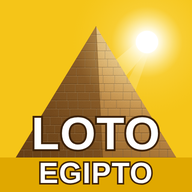
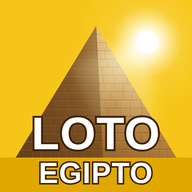
Icono: luz del sol más fotográfica

Changed region(s): [[0.4062, 0.2188, 0.8125, 0.5938]]

diff --git a/index.html b/index.html
@@ -7,9 +7,9 @@
 <meta name="apple-mobile-web-app-capable" content="yes">
 <meta name="apple-mobile-web-app-title" content="Loto Egipto">
 <title>Loto Egipto</title>
-<link rel="manifest" href="manifest.json?v=7">
-<link rel="apple-touch-icon" href="apple-touch-icon.png?v=7">
-<link rel="icon" href="icon-192.png?v=7">
+<link rel="manifest" href="manifest.json?v=8">
+<link rel="apple-touch-icon" href="apple-touch-icon.png?v=8">
+<link rel="icon" href="icon-192.png?v=8">
 <meta name="apple-mobile-web-app-status-bar-style" content="default">
 <style>
 :root{
